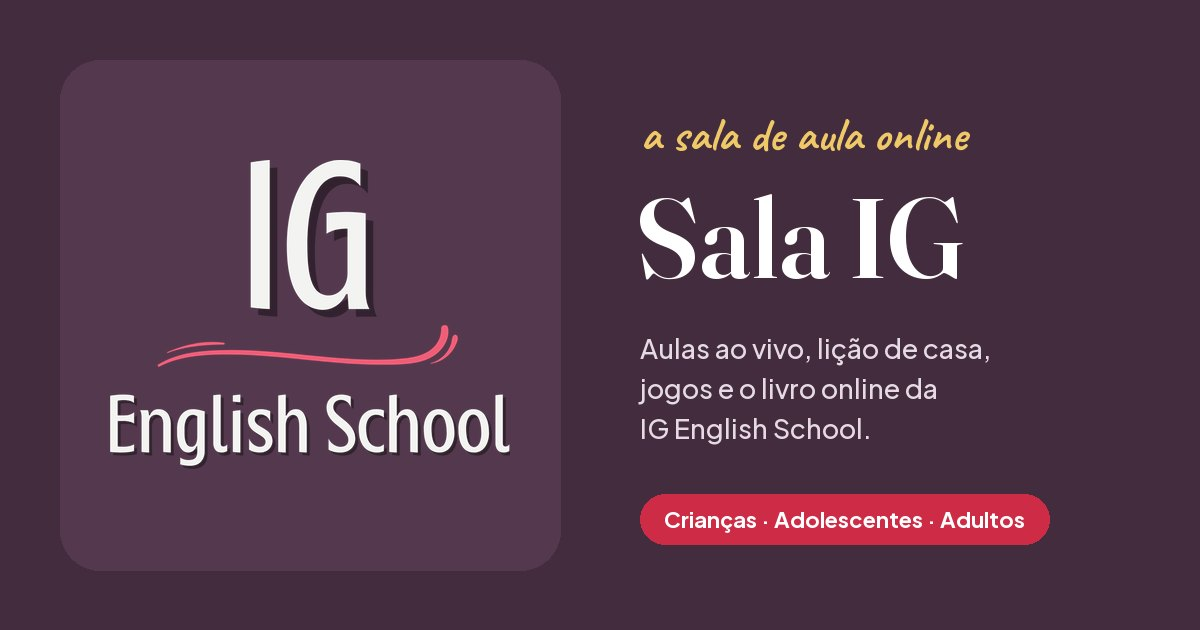
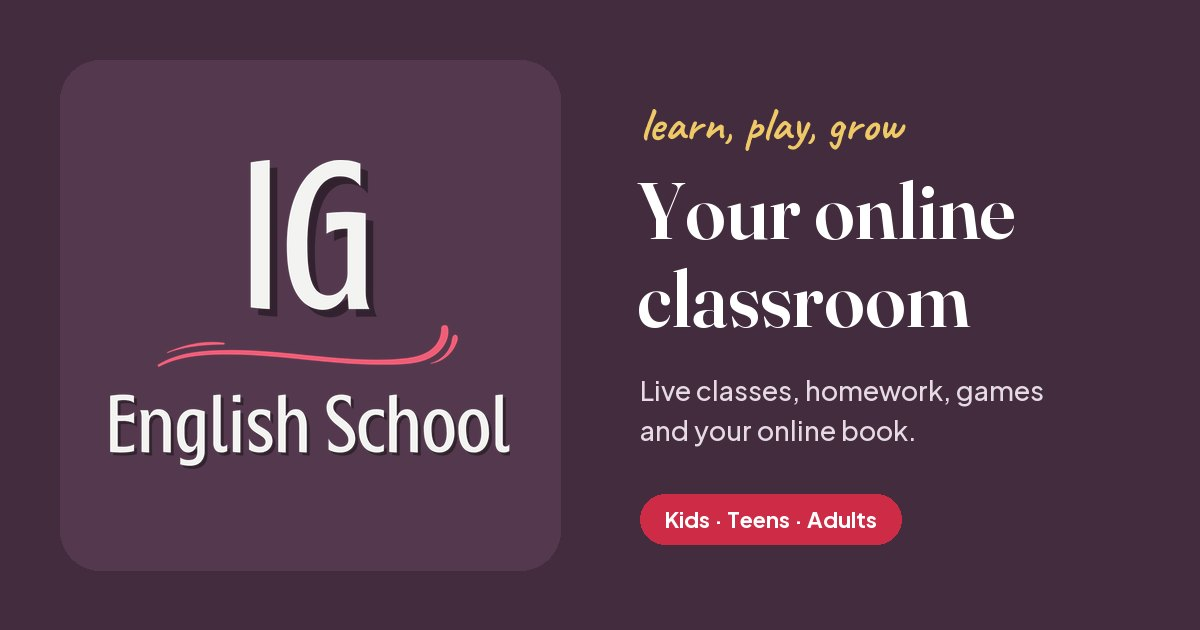
Name "IG English School" in English, and an English-only page for 14+
- Tab and link preview: "IG English School" (no "Sala IG"), English
  description, new og-image.jpg ("Your online classroom" beside the logo),
  ?v=2 on the image URL so WhatsApp fetches the new card.
- Student link, learners of 14+: tile subtitles, alerts, Help, footer and
  the "no homework" message in simple English, no Portuguese line. Children
  keep the Portuguese line underneath, for them and their parents.
- My progress, 14+: headings, stats, week chart (Mon-Sun), review and
  homework panels in English.

diff --git a/share.js b/share.js
@@ -486,14 +486,21 @@ function renderStudentHome(shell, studentId) {
   const myBook = typeof LivroOnline !== 'undefined' ? LivroOnline.bookFor(student) : null;
   // "Slides da aula" (slidesAula.js): only when the teacher turned it on for this student.
   const slidesOn = typeof SlidesAula !== 'undefined' && SlidesAula.visibleFor(student.id);
+  // Learners of 14+ get the page in English only: every word is input.
+  // Children keep the Portuguese line underneath, for them and their parents.
+  const en = typeof igGrownLook === 'function' && igGrownLook(student);
+  const say = (pt, eng) => (en ? eng : pt);
   const T = {
-    slides: () => tile('slides', '📝', 'Slides da aula', 'Class slides — rever o que vimos na aula', 'stu-tile--slides'),
-    book: () => (myBook ? tile('book', '📖', 'My book', 'Meu livro — fazer as páginas do livro aqui', 'stu-tile--book') : ''),
-    progress: () => tile('progress', '📈', 'My progress', typeof igGrownLook === 'function' && igGrownLook(student)
-      ? 'Meu progresso — o que já pratiquei' : 'Meu progresso — estrelas e figurinhas'),
-    homework: () => tile('homework', '📚', 'My homework', pending.length ? `Minha lição — ${pending.length} pendente(s)` : 'Minha lição — tudo em dia 🎉'),
-    review: () => (review ? tile('review-class', '🧠', 'Class review', `Revisão da aula — ${shareEsc(review.title || 'flashcards')}`, 'stu-tile--review') : ''),
-    games: () => tile('games', '🎮', prof === 'adult' ? 'Topics & games' : 'Games', prof === 'adult' ? 'Vocabulário, leitura e jogos dos meus tópicos' : 'Jogos com as palavras do meu nível'),
+    slides: () => tile('slides', '📝', say('Slides da aula', 'Class slides'), say('Class slides — rever o que vimos na aula', 'Look back at what we did in class'), 'stu-tile--slides'),
+    book: () => (myBook ? tile('book', '📖', 'My book', say('Meu livro — fazer as páginas do livro aqui', 'Do the pages of your book here'), 'stu-tile--book') : ''),
+    progress: () => tile('progress', '📈', 'My progress', say('Meu progresso — estrelas e figurinhas', 'See what you have practiced')),
+    homework: () => tile('homework', '📚', 'My homework', pending.length
+      ? say(`Minha lição — ${pending.length} pendente(s)`, `${pending.length} to do`)
+      : say('Minha lição — tudo em dia 🎉', 'All done 🎉')),
+    review: () => (review ? tile('review-class', '🧠', 'Class review', `${say('Revisão da aula', 'Review the class')} — ${shareEsc(review.title || 'flashcards')}`, 'stu-tile--review') : ''),
+    games: () => tile('games', '🎮', prof === 'adult' ? 'Topics & games' : 'Games', prof === 'adult'
+      ? say('Vocabulário, leitura e jogos dos meus tópicos', 'Vocabulary, reading and games for your topics')
+      : say('Jogos com as palavras do meu nível', 'Games with the words of your level')),
     colors: () => tile('colors', '🎨', 'Colors', 'Cores — ouvir, tocar e falar', 'stu-tile--review'),
     drawing: () => tile('drawing', '🖍', 'Drawing Challenge', 'Desenho surpresa — abra a caixa e desenhe', 'stu-tile--review'),
     alphabet: () => tile('alphabet', '🔤', 'ABC', 'Alfabeto — ouvir e falar as letras'),
@@ -506,14 +513,18 @@ function renderStudentHome(shell, studentId) {
     weather: () => tile('weather', '🌦', 'Weather', 'Clima'),
     body: () => tile('body', '🧍', 'My body', 'Partes do corpo'),
     practice: () => (practiceTopics && !practiceTopics.length ? '' : tile('practice', '⚡', 'Practice',
-      `Treinar — ${shareEsc((practiceTopics || []).slice(0, 3).map(t => t.label.split(' (')[0]).join(', ') || 'exercícios do meu nível')}${practiceTopics && practiceTopics.length > 3 ? '…' : ''}`)),
-    writingPractice: () => (practiceTopics && !practiceTopics.length ? '' : tile('writing-practice', '📝', 'Writing practice', 'Treinar a escrita — completar e montar frases')),
-    dictation: () => tile('dictation', '🎧', 'Dictation', 'Ditado — ouvir e escrever'),
-    speaking: () => tile('speaking', '🎤', 'Speaking', 'Falar — ler em voz alta'),
-    write: () => tile('writing', '✍', 'Write to my teacher', 'Escrever uma mensagem para a teacher'),
-    audio: () => tile('audio', '💬', 'Messages', chatUnreadForStudent(student.id) ? `Mensagens — ${chatUnreadForStudent(student.id)} nova(s) da teacher` : 'Mensagens com a teacher — escrever ou mandar áudio', 'stu-tile--review'),
-    manual: () => tile('manual', '📘', 'Student Manual', 'Manual do Aluno — como usar o curso e o site', 'stu-tile--review'),
-    mistakes: () => tile('review', '🔁', 'My mistakes', mistakes ? `Meus erros — ${mistakes} para revisar` : 'Meus erros — nada pendente'),
+      `${say('Treinar — ', '')}${shareEsc((practiceTopics || []).slice(0, 3).map(t => t.label.split(' (')[0]).join(', ') || say('exercícios do meu nível', 'exercises for your level'))}${practiceTopics && practiceTopics.length > 3 ? '…' : ''}`)),
+    writingPractice: () => (practiceTopics && !practiceTopics.length ? '' : tile('writing-practice', '📝', 'Writing practice', say('Treinar a escrita — completar e montar frases', 'Complete and build sentences'))),
+    dictation: () => tile('dictation', '🎧', 'Dictation', say('Ditado — ouvir e escrever', 'Listen and write')),
+    speaking: () => tile('speaking', '🎤', 'Speaking', say('Falar — ler em voz alta', 'Read aloud and record yourself')),
+    write: () => tile('writing', '✍', 'Write to my teacher', say('Escrever uma mensagem para a teacher', 'Write a message to your teacher')),
+    audio: () => tile('audio', '💬', 'Messages', chatUnreadForStudent(student.id)
+      ? say(`Mensagens — ${chatUnreadForStudent(student.id)} nova(s) da teacher`, `${chatUnreadForStudent(student.id)} new from your teacher`)
+      : say('Mensagens com a teacher — escrever ou mandar áudio', 'Chat with your teacher: text or audio'), 'stu-tile--review'),
+    manual: () => tile('manual', '📘', 'Student Manual', say('Manual do Aluno — como usar o curso e o site', 'How the course and this site work'), 'stu-tile--review'),
+    mistakes: () => tile('review', '🔁', 'My mistakes', mistakes
+      ? say(`Meus erros — ${mistakes} para revisar`, `${mistakes} to review`)
+      : say('Meus erros — nada pendente', 'Nothing to review')),
   };
   // The picture games are tiles of their own; the teacher can switch each
   // one off in the link window.
@@ -557,15 +568,15 @@ function renderStudentHome(shell, studentId) {
              · ${progress.xp || 0} XP · ${progress.stars || 0} ⭐
              ${stats && stats.streak ? ` · 🔥 ${stats.streak} day${stats.streak === 1 ? '' : 's'}` : ''}</p>
         </div>
- ${groupHome ? '<button class="stu-help stu-switch" id="stuSwitchBtn" type="button" title="Voltar para a escolha do grupo">👥 <span>Trocar de pessoa</span></button>' : ''}
-        <button class="stu-help" id="stuHelpBtn" type="button" title="Ver o tutorial de novo">❓ <span>Ajuda</span></button>
+ ${groupHome ? `<button class="stu-help stu-switch" id="stuSwitchBtn" type="button" title="${say('Voltar para a escolha do grupo', 'Back to the group')}">👥 <span>${say('Trocar de pessoa', 'Switch person')}</span></button>` : ''}
+        <button class="stu-help" id="stuHelpBtn" type="button" title="${say('Ver o tutorial de novo', 'See the tour again')}">❓ <span>${say('Ajuda', 'Help')}</span></button>
       </header>
 
       ${newReplies.length ? `
         <div class="stu-alert reply">
           <div>
             <b>💬 Your teacher answered you!</b>
-            <small>A teacher respondeu — veja o que ela escreveu</small>
+            <small>${say('A teacher respondeu — veja o que ela escreveu', 'See what she wrote')}</small>
           </div>
           <button class="btn btn-primary" data-go="${newReplies.every(w => w.from === 'teacher' || w.audio || w.promptId === 'chat') ? 'audio' : 'writing'}">Read</button>
         </div>` : ''}
@@ -574,7 +585,7 @@ function renderStudentHome(shell, studentId) {
         <div class="stu-alert">
           <div>
             <b>📚 You have homework!</b>
-            <small>Você tem ${pending.length} lição(ões) esperando por você</small>
+            <small>${say(`Você tem ${pending.length} lição(ões) esperando por você`, `${pending.length} ${pending.length === 1 ? 'task is' : 'tasks are'} waiting for you`)}</small>
           </div>
           <button class="btn btn-primary" data-go="homework">Let's go!</button>
         </div>` : ''}
@@ -583,7 +594,7 @@ function renderStudentHome(shell, studentId) {
         <div class="stu-alert soft">
           <div>
             <b>🔁 ${mistakes} word${mistakes === 1 ? '' : 's'} to review</b>
-            <small>As que você errou — revisar hoje faz elas grudarem</small>
+            <small>${say('As que você errou — revisar hoje faz elas grudarem', 'The ones you got wrong. Review them today and they will stick.')}</small>
           </div>
           <button class="btn btn-primary" data-go="review">Review</button>
         </div>` : ''}
@@ -592,7 +603,7 @@ function renderStudentHome(shell, studentId) {
         ${tilesFor(prof).join('')}
       </div>
 
-      <p class="stu-foot">IG English School · your teacher sees what you do here ✨<br><small>a teacher vê o que você faz aqui</small><br><small class="stu-credit">Emoji graphics: Twemoji (CC-BY 4.0)</small></p>
+      <p class="stu-foot">IG English School · your teacher sees what you do here ✨<br>${en ? '' : '<small>a teacher vê o que você faz aqui</small><br>'}<small class="stu-credit">Emoji graphics: Twemoji (CC-BY 4.0)</small></p>
     </div>`;
 
   const switchBtn = shell.querySelector('#stuSwitchBtn');
@@ -604,7 +615,7 @@ function renderStudentHome(shell, studentId) {
     progress: () => openStudentProgress(student.id),
     homework: () => {
       const hw = pending[0] || homework[0];
-      if (!hw) { alert('Nenhuma lição por enquanto. 🎉'); return; }
+      if (!hw) { alert(say('Nenhuma lição por enquanto. 🎉', 'No homework right now. 🎉')); return; }
       openHomeworkRunner(hw, () => renderStudentHome(shell, studentId));
     },
     review: () => openMistakes(student.id),

diff --git a/studentProgress.js b/studentProgress.js
@@ -14,18 +14,20 @@ function spLevelLabel(student) {
 
 // A week of practice as a row of bars: height from the day's attempts, the
 // green part from what was right.
-function spWeekChartHTML(week) {
+// `english` (14+) shows the day names and the tooltip in English.
+const SP_DAYS_EN = { dom: 'Sun', seg: 'Mon', ter: 'Tue', qua: 'Wed', qui: 'Thu', sex: 'Fri', 'sáb': 'Sat' };
+function spWeekChartHTML(week, english) {
   const max = Math.max(4, ...week.map(d => d.total));
   return `
     <div class="sp-week">
       ${week.map(d => `
-        <div class="sp-day" title="${d.total} exercícios · ${d.right} certos">
+        <div class="sp-day" title="${english ? `${d.total} exercises · ${d.right} right` : `${d.total} exercícios · ${d.right} certos`}">
           <div class="sp-bar">
             <div class="sp-bar-total" style="height:${Math.round((d.total / max) * 100)}%">
               <div class="sp-bar-right" style="height:${d.total ? Math.round((d.right / d.total) * 100) : 0}%"></div>
             </div>
           </div>
-          <span class="sp-day-label">${d.label}</span>
+          <span class="sp-day-label">${english ? (SP_DAYS_EN[d.label] || d.label) : d.label}</span>
           <span class="sp-day-count">${d.total || ''}</span>
         </div>`).join('')}
     </div>`;
@@ -62,6 +64,8 @@ function paintStudentProgress(mount, student) {
   const next = stickers.find(s => (progress.stickers || []).indexOf(s.id) === -1);
   // Stickers are for children; learners of 14+ see their progress without them.
   const grownLook = typeof igGrownLook === 'function' && igGrownLook(student);
+  // 14+: the page is in English only (every word is input).
+  const say = (pt, eng) => (grownLook ? eng : pt);
   const homework = typeof hwForStudent === 'function' ? hwForStudent(student.id) : [];
   const pending = homework.filter(h => typeof hwIsDone === 'function' && !hwIsDone(h));
   const writings = typeof SkillsModules !== 'undefined' ? SkillsModules.loadWriting(student.id) : [];
@@ -76,59 +80,59 @@ function paintStudentProgress(mount, student) {
     <div class="sp-hero" style="--sp-color:${spEsc(student.color || '#8e6d86')}">
       <span class="sp-avatar">${spEsc(student.avatar || '🙂')}</span>
       <div class="sp-hero-text">
-        <h3 id="modalTitle">Meu progresso — ${spEsc(student.name)}</h3>
+        <h3 id="modalTitle">${say('Meu progresso', 'My progress')} — ${spEsc(student.name)}</h3>
         <p>${spEsc(spLevelLabel(student))} · ${progress.xp || 0} XP · ${progress.stars || 0} ⭐</p>
       </div>
-      <button class="game-btn secondary" id="spCertificate">🏅 Certificado</button>
+      <button class="game-btn secondary" id="spCertificate">🏅 ${say('Certificado', 'Certificate')}</button>
     </div>
 
     <div class="sp-stats">
-      ${spStatCard('🔥', stats ? stats.streak : 0, stats && stats.streak === 1 ? 'dia seguido' : 'dias seguidos', stats && stats.streak >= 3 ? 'hot' : '')}
-      ${spStatCard('✅', stats ? `${stats.weekAccuracy}%` : '0%', 'acerto na semana')}
-      ${spStatCard('🎯', stats ? stats.weekTotal : 0, 'exercícios na semana')}
-      ${spStatCard('🧠', stats ? stats.bank.mastered : 0, 'questões dominadas')}
+      ${spStatCard('🔥', stats ? stats.streak : 0, stats && stats.streak === 1 ? say('dia seguido', 'day in a row') : say('dias seguidos', 'days in a row'), stats && stats.streak >= 3 ? 'hot' : '')}
+      ${spStatCard('✅', stats ? `${stats.weekAccuracy}%` : '0%', say('acerto na semana', 'right this week'))}
+      ${spStatCard('🎯', stats ? stats.weekTotal : 0, say('exercícios na semana', 'exercises this week'))}
+      ${spStatCard('🧠', stats ? stats.bank.mastered : 0, say('questões dominadas', 'questions mastered'))}
     </div>
 
     <div class="sp-panel">
-      <h4 class="watch-h">📅 Minha semana</h4>
-      ${stats ? spWeekChartHTML(stats.week) : ''}
-      <p class="sp-legend"><i class="sp-key total"></i> exercícios &nbsp; <i class="sp-key right"></i> acertos</p>
+      <h4 class="watch-h">📅 ${say('Minha semana', 'My week')}</h4>
+      ${stats ? spWeekChartHTML(stats.week, grownLook) : ''}
+      <p class="sp-legend"><i class="sp-key total"></i> ${say('exercícios', 'exercises')} &nbsp; <i class="sp-key right"></i> ${say('acertos', 'right answers')}</p>
     </div>
 
     ${stats && stats.bank.due ? `
       <div class="sp-panel sp-review">
         <div>
-          <h4 class="watch-h">🔁 Para revisar hoje</h4>
-          <p>${stats.bank.due} questão(ões) que você errou estão esperando. Revisar agora é o que faz ficar na cabeça.</p>
+          <h4 class="watch-h">🔁 ${say('Para revisar hoje', 'To review today')}</h4>
+          <p>${say(`${stats.bank.due} questão(ões) que você errou estão esperando. Revisar agora é o que faz ficar na cabeça.`, `${stats.bank.due} question${stats.bank.due === 1 ? '' : 's'} you got wrong ${stats.bank.due === 1 ? 'is' : 'are'} waiting. Review now and it will stick.`)}</p>
         </div>
-        <button class="btn btn-primary" id="spReview">Revisar agora</button>
+        <button class="btn btn-primary" id="spReview">${say('Revisar agora', 'Review now')}</button>
       </div>` : `
       <div class="sp-panel sp-review is-clear">
         <div>
-          <h4 class="watch-h">🔁 Revisão</h4>
-          <p>Nada pendente para revisar. ${stats && stats.bank.total ? 'Continue assim!' : 'Jogue um pouco para começar a montar sua lista.'}</p>
+          <h4 class="watch-h">🔁 ${say('Revisão', 'Review')}</h4>
+          <p>${say('Nada pendente para revisar.', 'Nothing to review.')} ${stats && stats.bank.total ? say('Continue assim!', 'Keep it up!') : say('Jogue um pouco para começar a montar sua lista.', 'Play a little to start your list.')}</p>
         </div>
       </div>`}
 
     ${pending.length ? `
       <div class="sp-panel sp-homework">
-        <h4 class="watch-h">📚 Lição de casa</h4>
+        <h4 class="watch-h">📚 ${say('Lição de casa', 'Homework')}</h4>
         ${pending.map(h => {
           const p = hwProgress(h);
           return `
             <div class="sp-hw-row">
               <div>
                 <b>${spEsc(h.title)}</b>
-                <small>${p.done}/${p.total} tarefas · ${hwDueLabel(h)}</small>
+                <small>${p.done}/${p.total} ${say('tarefas', 'tasks')} · ${hwDueLabel(h)}</small>
               </div>
-              <button class="game-btn" data-hw="${h.id}">▶ Fazer</button>
+              <button class="game-btn" data-hw="${h.id}">▶ ${say('Fazer', 'Start')}</button>
             </div>`;
         }).join('')}
       </div>` : ''}
 
     ${topTopics.length ? `
       <div class="sp-panel">
-        <h4 class="watch-h">📊 Onde eu mais treinei</h4>
+        <h4 class="watch-h">📊 ${say('Onde eu mais treinei', 'What I practiced most')}</h4>
         <div class="sp-topics">
           ${topTopics.map(t => {
             const pct = t.total ? Math.round((t.right / t.total) * 100) : 0;
@@ -136,7 +140,7 @@ function paintStudentProgress(mount, student) {
               <div class="sp-topic">
                 <div class="sp-topic-head"><span>${spEsc(t.topic)}</span><b>${pct}%</b></div>
                 <div class="sp-topic-bar"><div style="width:${pct}%" class="${pct >= 70 ? 'good' : pct >= 50 ? 'mid' : 'low'}"></div></div>
-                <small>${t.total} exercício${t.total === 1 ? '' : 's'}</small>
+                <small>${t.total} ${say('exercício', 'exercise')}${t.total === 1 ? '' : 's'}</small>
               </div>`;
           }).join('')}
         </div>
@@ -155,7 +159,7 @@ function paintStudentProgress(mount, student) {
 
     ${corrected.length ? `
       <div class="sp-panel">
-        <h4 class="watch-h">✍ Meus textos corrigidos</h4>
+        <h4 class="watch-h">✍ ${say('Meus textos corrigidos', 'My corrected texts')}</h4>
         ${corrected.slice(0, 3).map(w => SkillsModules.submissionHTML(w)).join('')}
       </div>` : ''}
   `;

diff --git a/index.html b/index.html
@@ -3,19 +3,19 @@
 <head>
 <meta charset="UTF-8" />
 <meta name="viewport" content="width=device-width, initial-scale=1.0" />
-<title>Sala IG · IG English School</title>
-<meta name="description" content="A sala de aula online da IG English School: aulas ao vivo, lição de casa, jogos e o livro online, para crianças, adolescentes e adultos." />
+<title>IG English School</title>
+<meta name="description" content="Your online English classroom: live classes, homework, games and your online book, for kids, teens and adults." />
 <!-- Link preview (WhatsApp, Instagram, Google): the logo card in og-image.jpg. -->
 <meta property="og:type" content="website" />
-<meta property="og:locale" content="pt_BR" />
+<meta property="og:locale" content="en_US" />
 <meta property="og:site_name" content="IG English School" />
 <meta property="og:url" content="https://ig-englishschool.vercel.app/" />
-<meta property="og:title" content="Sala IG · IG English School" />
-<meta property="og:description" content="A sala de aula online da IG English School: aulas ao vivo, lição de casa, jogos e o livro online." />
-<meta property="og:image" content="https://ig-englishschool.vercel.app/og-image.jpg" />
+<meta property="og:title" content="IG English School" />
+<meta property="og:description" content="Your online English classroom: live classes, homework, games and your online book." />
+<meta property="og:image" content="https://ig-englishschool.vercel.app/og-image.jpg?v=2" />
 <meta property="og:image:width" content="1200" />
 <meta property="og:image:height" content="630" />
-<meta property="og:image:alt" content="Logo da IG English School ao lado do nome Sala IG" />
+<meta property="og:image:alt" content="IG English School logo next to the words Your online classroom" />
 <meta name="twitter:card" content="summary_large_image" />
 <meta name="theme-color" content="#432C3E" />
 <link rel="icon" type="image/png" href="favicon.png" />
